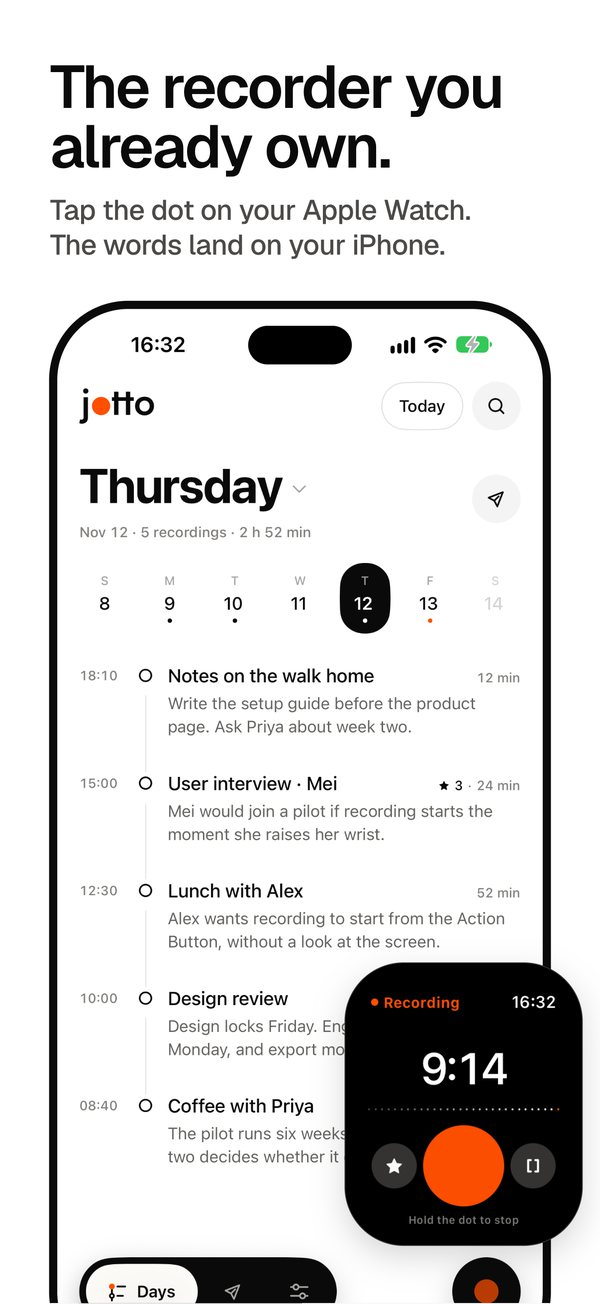
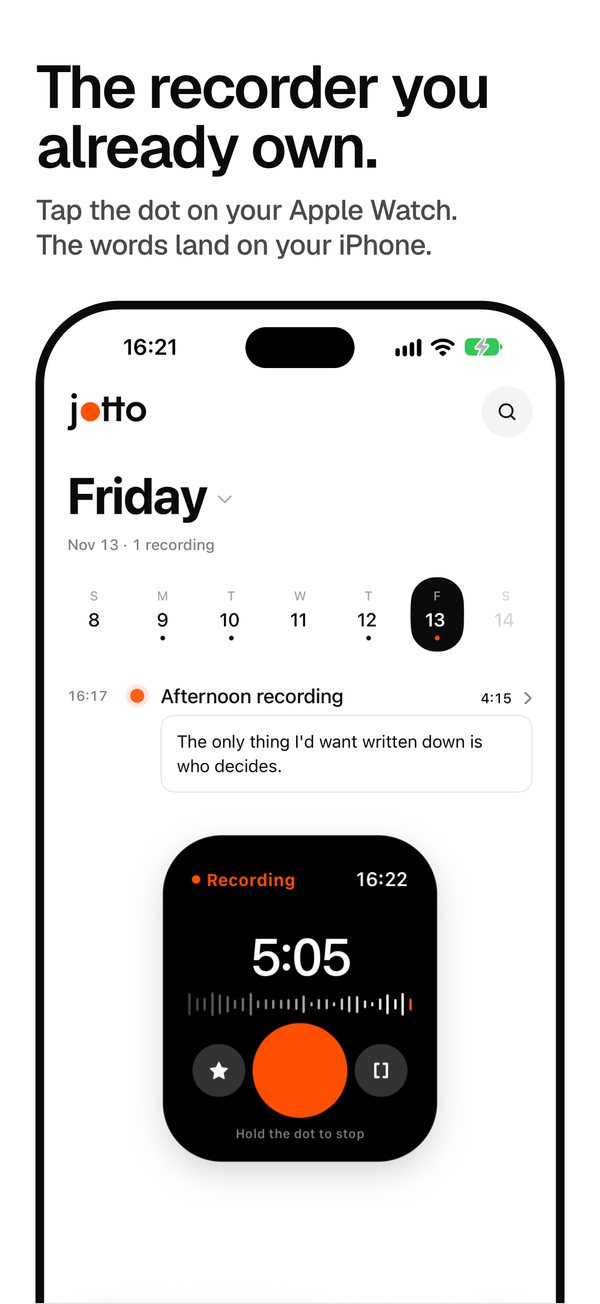
MODELS.md: how a dozen cloud models and the two on-device ones compared on our own recordings (numbers only, no audio or text), with what each costs a minute; README screenshots and alt text follow the reworked store set. Watch app (Debug only): store screenshots can start a recording minutes in, wi

diff --git a/apple/Apps/Watch/Recorder.swift b/apple/Apps/Watch/Recorder.swift
@@ -238,6 +238,15 @@ final class Recorder {
         note("phone_mark", section ? "section" : "moment")
     }
 
+    #if DEBUG
+    static let fakeLevels = ProcessInfo.processInfo.environment["JOTTO_FAKE_LEVELS"] != nil
+
+    /// Simulator screenshots: the recording as if it began `seconds` ago.
+    func backdate(_ seconds: TimeInterval) {
+        startedAt = startedAt?.addingTimeInterval(-seconds)
+    }
+    #endif
+
     /// The phone's Live screen is showing this recording: send it the
     /// levels for a while, so its strip moves with the voice here.
     func phoneWantsLevels(session: String) {
@@ -278,7 +287,11 @@ final class Recorder {
             while !Task.isCancelled {
                 try? await Task.sleep(for: .milliseconds(100))
                 guard let self else { return }
-                let level = self.meter.take()
+                var level = self.meter.take()
+                #if DEBUG
+                // Store screenshots: speech-like bars without anyone speaking (`JOTTO_FAKE_LEVELS=1`).
+                if Self.fakeLevels { level = Float.random(in: 0.25...0.95) * (Bool.random() ? 1 : 0.55) }
+                #endif
                 self.levels.removeFirst()
                 self.levels.append(level)
                 self.passToPhone(level)

diff --git a/apple/Apps/Watch/JottoWatchApp.swift b/apple/Apps/Watch/JottoWatchApp.swift
@@ -15,7 +15,18 @@ struct JottoWatchApp: App {
                 #if DEBUG
                 // Simulator screenshots: `SIMCTL_CHILD_JOTTO_AUTOSTART=1 xcrun simctl launch …`
                 .task {
-                    if ProcessInfo.processInfo.environment["JOTTO_AUTOSTART"] != nil { recorder.start() }
+                    let env = ProcessInfo.processInfo.environment
+                    if env["JOTTO_AUTOSTART"] != nil {
+                        recorder.start()
+                        // A recording already some minutes in (`JOTTO_AUTOSTART_AGO=255`),
+                        // and the star just pressed (`JOTTO_AUTOMARK=1`).
+                        if let ago = env["JOTTO_AUTOSTART_AGO"].flatMap(Double.init) { recorder.backdate(ago) }
+                        if env["JOTTO_AUTOMARK"] != nil {
+                            // Once the level bars have filled.
+                            try? await Task.sleep(for: .seconds(3.5))
+                            recorder.mark(source: "screenshot")
+                        }
+                    }
                 }
                 #endif
         }

diff --git a/MODELS.md b/MODELS.md
@@ -1,0 +1,60 @@
+# Speech models compared
+
+A rough feel for how the speech models jotto can use differ from one another. This isn't a recommendation: your voice, your languages, your microphone and the room you're in will matter more than any of these numbers.
+
+## What we tested
+
+- 12 two-minute parts, about 23 minutes in all, of real conversations recorded on an Apple Watch the way jotto records them (16 kHz mono AAC). Mostly Mandarin, with English words mixed in (product names and technical terms), one to three people, indoors.
+- The recordings are private, so neither the audio nor any transcript is published here, only the numbers.
+- Cloud models were called through [OpenRouter](https://openrouter.ai) in October 2026. The two on-device models ran on a Mac (M3 Max) in November 2026, with the same code jotto uses on the iPhone.
+
+## How to read it
+
+Nobody wrote out a checked transcript, so there is no true error rate. Instead, every model is compared with the two cloud models that agreed with each other most closely, Microsoft MAI-Transcribe-2 and ElevenLabs Scribe v2.
+
+- **Difference**: how many characters differ from that model's text, as a share of its length, ignoring punctuation and spaces. Lower means closer to it, which usually but not always means more correct.
+- **English words**: of the 95 English words both reference models heard, the share this model got. This is how well it copes with English inside Chinese sentences.
+- **Time**: the median time to transcribe one two-minute part.
+
+## Results
+
+| Model | Runs | Difference from MAI-2 | Difference from Scribe | English words | Time per part | Price per minute |
+|-------|------|----:|----:|----:|----:|----:|
+| Apple, built in | On the iPhone | 11.1% | 13.3% | 61% | 2.6 s¹ | Free |
+| Qwen3-ASR 0.6B | On the iPhone | 8.2% | 9.2% | 74% | 20 s¹ | Free |
+| Microsoft MAI-Transcribe-2 | Cloud | (reference) | 7.1% | (reference) | 6.7 s | $0.0017 ($0.10/h)² |
+| ElevenLabs Scribe v2 | Cloud | 7.1% | (reference) | (reference) | 5.5 s | $0.0037 ($0.22/h) |
+| Qwen3-ASR 1.7B | Cloud | 6.9% | 8.7% | 81% | 10.8 s | $0.00045 ($0.03/h) |
+| AssemblyAI Universal-3.6 Pro | Cloud | 8.2% | 9.4% | 84% | 2.8 s | $0.0050 ($0.30/h) |
+| Mistral Voxtral Small Transcribe | Cloud | 9.8% | 11.7% | 94% | 4.7 s | $0.0040 ($0.24/h) |
+| Meta Muse Voice Transcribe 1.0 | Cloud | 10.9% | 11.7% | 96% | 22.1 s | $0.0030 ($0.18/h) |
+| OpenAI GPT Transcribe | Cloud | 12.1% | 11.7% | 94% | 6.1 s | $0.0045 ($0.27/h) |
+| xAI Grok STT 1.0 | Cloud | 12.2% | 13.5% | 87% | 2.4 s | $0.0017 ($0.10/h) |
+| OpenAI Whisper large-v3 turbo | Cloud | 15.8% | 16.6% | 75% | 2.4 s | $0.0002–0.0007 ($0.01–0.04/h) |
+| Google Gemini 3.5 Transcribe | Cloud | 18.0% | 18.4% | 38% | 9.5 s | about $0.005 (about $0.30/h)³ |
+| Fish Audio Transcribe 1 Pro | Cloud | 27.4% | 29.2% | 98% | 4.3 s | $0.0060 ($0.36/h) |
+| Deepgram Nova-3 | Cloud | ⁴ | ⁴ | ⁴ | 1.7 s | $0.0052 ($0.31/h) |
+
+¹ On a Mac. An iPhone is slower, and slower again with the screen locked.
+
+² An introductory price until 31 December 2026; Azure's list price is about $0.009 a minute.
+
+³ Billed by tokens ($2 per million in, $12 per million out); this is Google's own estimate per minute.
+
+⁴ Returned almost nothing for this Mandarin audio.
+
+Prices are per minute of audio, with an hour in brackets, as OpenRouter listed them in November 2026. Most are the same on the vendor's own API; ElevenLabs is a little cheaper direct ($0.0033), and Whisper large-v3 turbo is $0.0007 on Groq. OpenRouter adds a small fee when you buy credits. An hour-long meeting costs between about 1 and 36 cents to transcribe, depending on the model. Prices change; check the service before you rely on them.
+
+## What the numbers don't show
+
+- **Speakers.** In our run, only MAI-Transcribe-2 and Scribe v2 said who was speaking. For some of the others we may not have asked in the way that service expects, so treat this as unknown rather than missing. Neither on-device model tells speakers apart.
+- **Punctuation.** Apple's model puts in very little. jotto adds punctuation and breaks the text into sentences and paragraphs afterwards, whichever model heard it.
+- **Length.** Gemini's text came out about 17% shorter than the reference models', and Fish Audio's about 22% longer; that accounts for much of their difference.
+- **Other languages.** This was mostly Mandarin. A model that trails here may lead in English, and the other way round.
+- **Titles and tidying.** Writing the title and taking out fillers is a separate step and isn't measured here.
+
+## In jotto
+
+- **Apple** is the default: built into iOS, nothing to download, and best when a recording stays in one language.
+- **Qwen3-ASR 0.6B** is a 950 MB download in Settings → Processing. It's much better with English words inside Chinese sentences, and takes longer.
+- **Your own API key** lets you use any of the cloud models above, through OpenRouter or any OpenAI-compatible service. Audio goes straight from your iPhone to that service, and you pay it directly.

diff --git a/README.md b/README.md
@@ -20,10 +20,10 @@
 </p>
 
 <p align="center">
-  <img src=".github/readme/01-recorder.jpg" width="32%" alt="Days: a timeline of the day's recordings, with the watch recording">
+  <img src=".github/readme/01-recorder.jpg" width="32%" alt="The watch recording, and the words already on the iPhone">
   <img src=".github/readme/02-talk.jpg" width="32%" alt="Live: the timer, the record dot and the latest words">
   <img src=".github/readme/03-clean.jpg" width="32%" alt="A transcript, original view with the fillers struck through">
-  <img src=".github/readme/04-mark.jpg" width="32%" alt="A transcript with highlights marked from the watch">
+  <img src=".github/readme/04-mark.jpg" width="32%" alt="Highlights, starred from the watch">
   <img src=".github/readme/05-send.jpg" width="32%" alt="Send: jotto writes it down, your own agent does the rest">
   <img src=".github/readme/06-private.jpg" width="32%" alt="Processing: on this iPhone or with your own API key">
 </p>
@@ -53,6 +53,8 @@ Pick one in Settings → Processing.
 | Your own API key | OpenRouter, or any OpenAI-compatible service such as Groq, Together or OpenAI | Telling speakers apart; you pay the service directly |
 
 Titles and tidying are written on the iPhone by Apple Intelligence where it's available, or by the model behind your key.
+
+For a feel of how they differ, including a dozen cloud models and what each costs, see [MODELS.md](MODELS.md).
 
 ## Shortcuts
 
